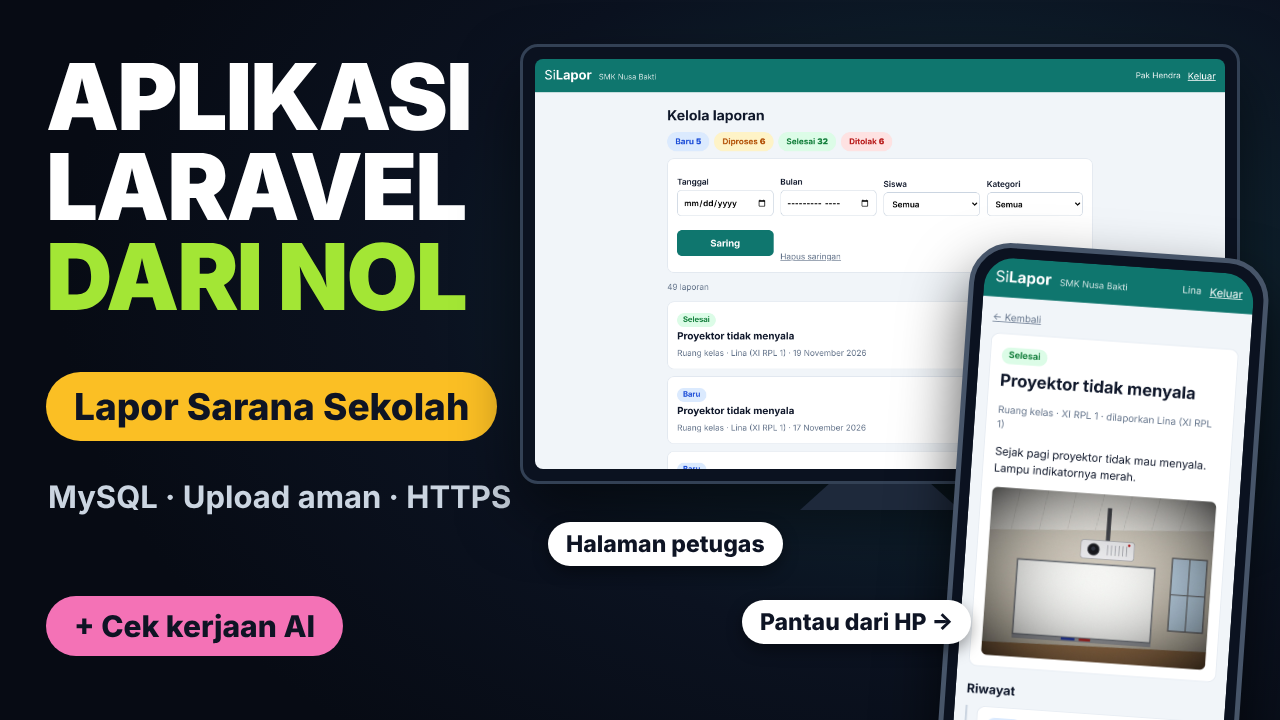
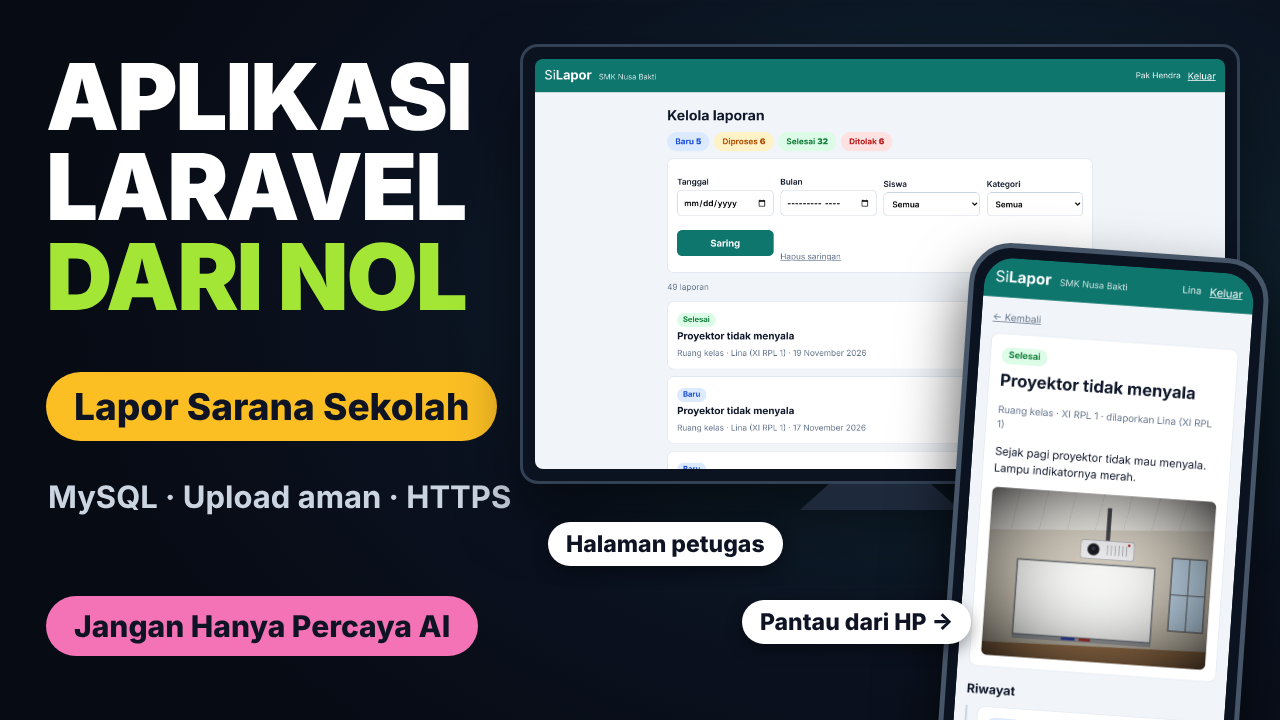
SiLapor: teks thumbnail menjadi "Jangan Hanya Percaya AI"
Claude-Session: https://claude.ai/code/session_012oyg5FjPCQDmJaPMmkz7up

Changed region(s): [[0.0625, 0.825, 0.375, 0.9167]]

diff --git a/episodes/silapor/produksi/thumbnail/t.html b/episodes/silapor/produksi/thumbnail/t.html
@@ -13,7 +13,7 @@
 <div class="j">APLIKASI<br>LARAVEL<br><span>DARI NOL</span></div>
 <div class="pil" style="top:372px;background:#fbbf24;font-size:37px">Lapor Sarana Sekolah</div>
 <div class="st">MySQL · Upload aman · HTTPS</div>
-<div class="pil" style="top:596px;background:#f472b6;font-size:30px">+ Cek kerjaan AI</div>
+<div class="pil" style="top:596px;background:#f472b6;font-size:30px">Jangan Hanya Percaya AI</div>
 <div class="lap"><img src="kelola.png"></div><div class="kaki"></div>
 <div class="hp"><img src="hp.png"></div>
 <div class="cap" style="left:548px;top:522px">Halaman petugas</div>
